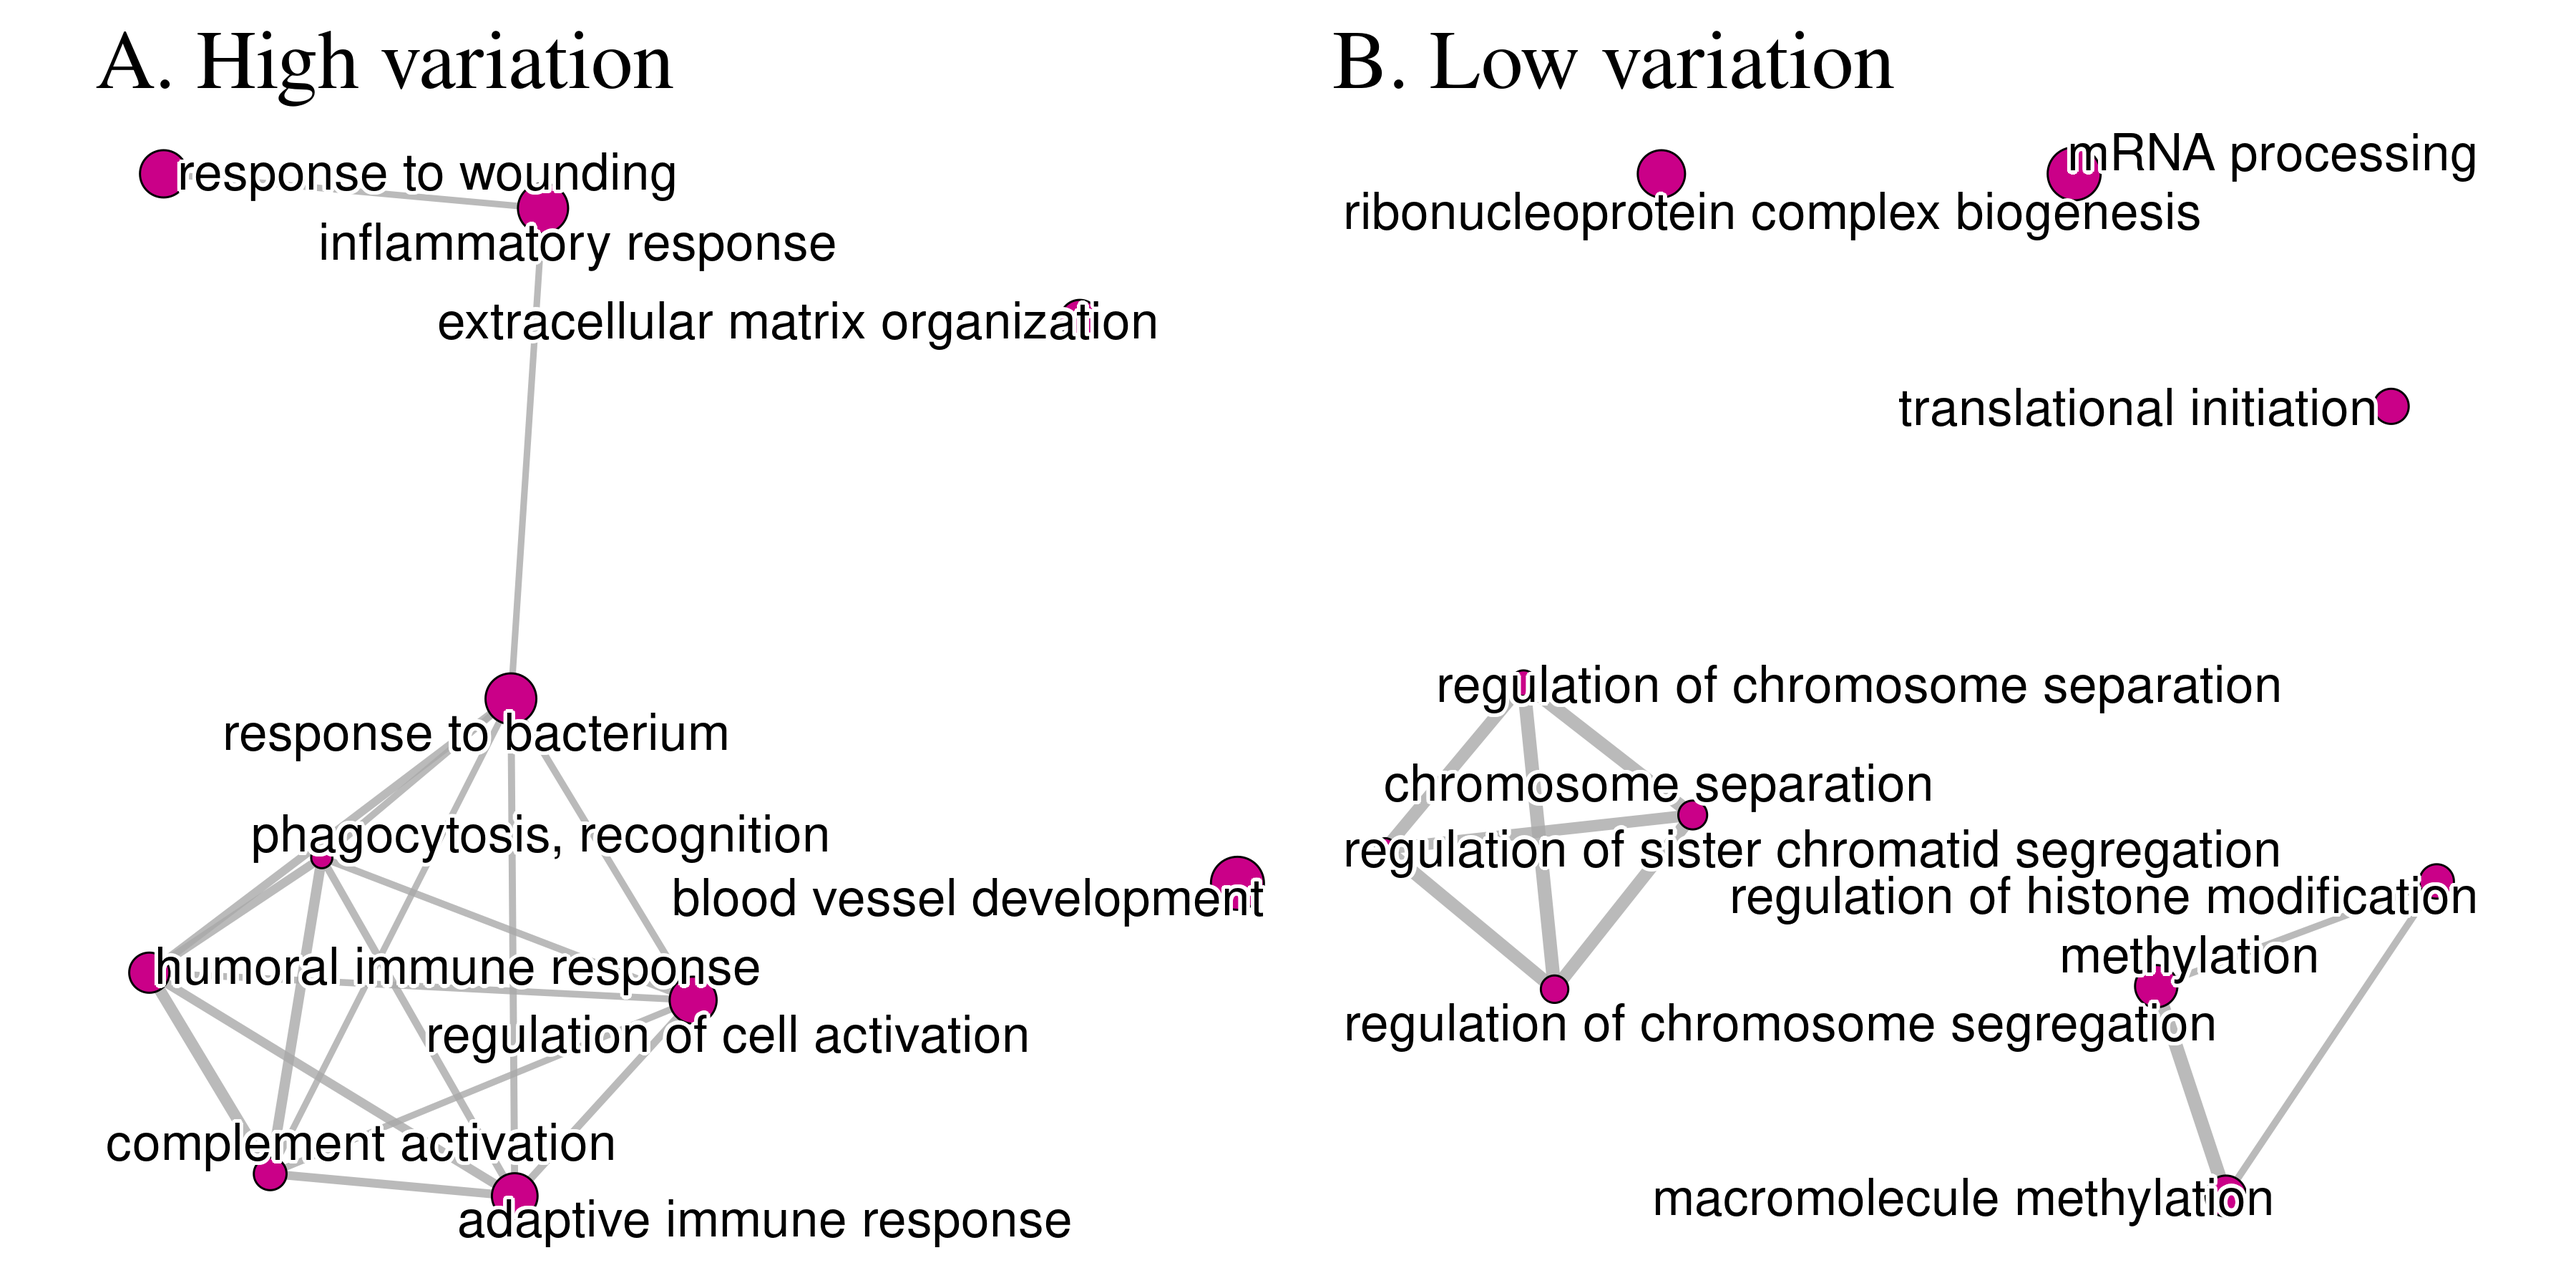
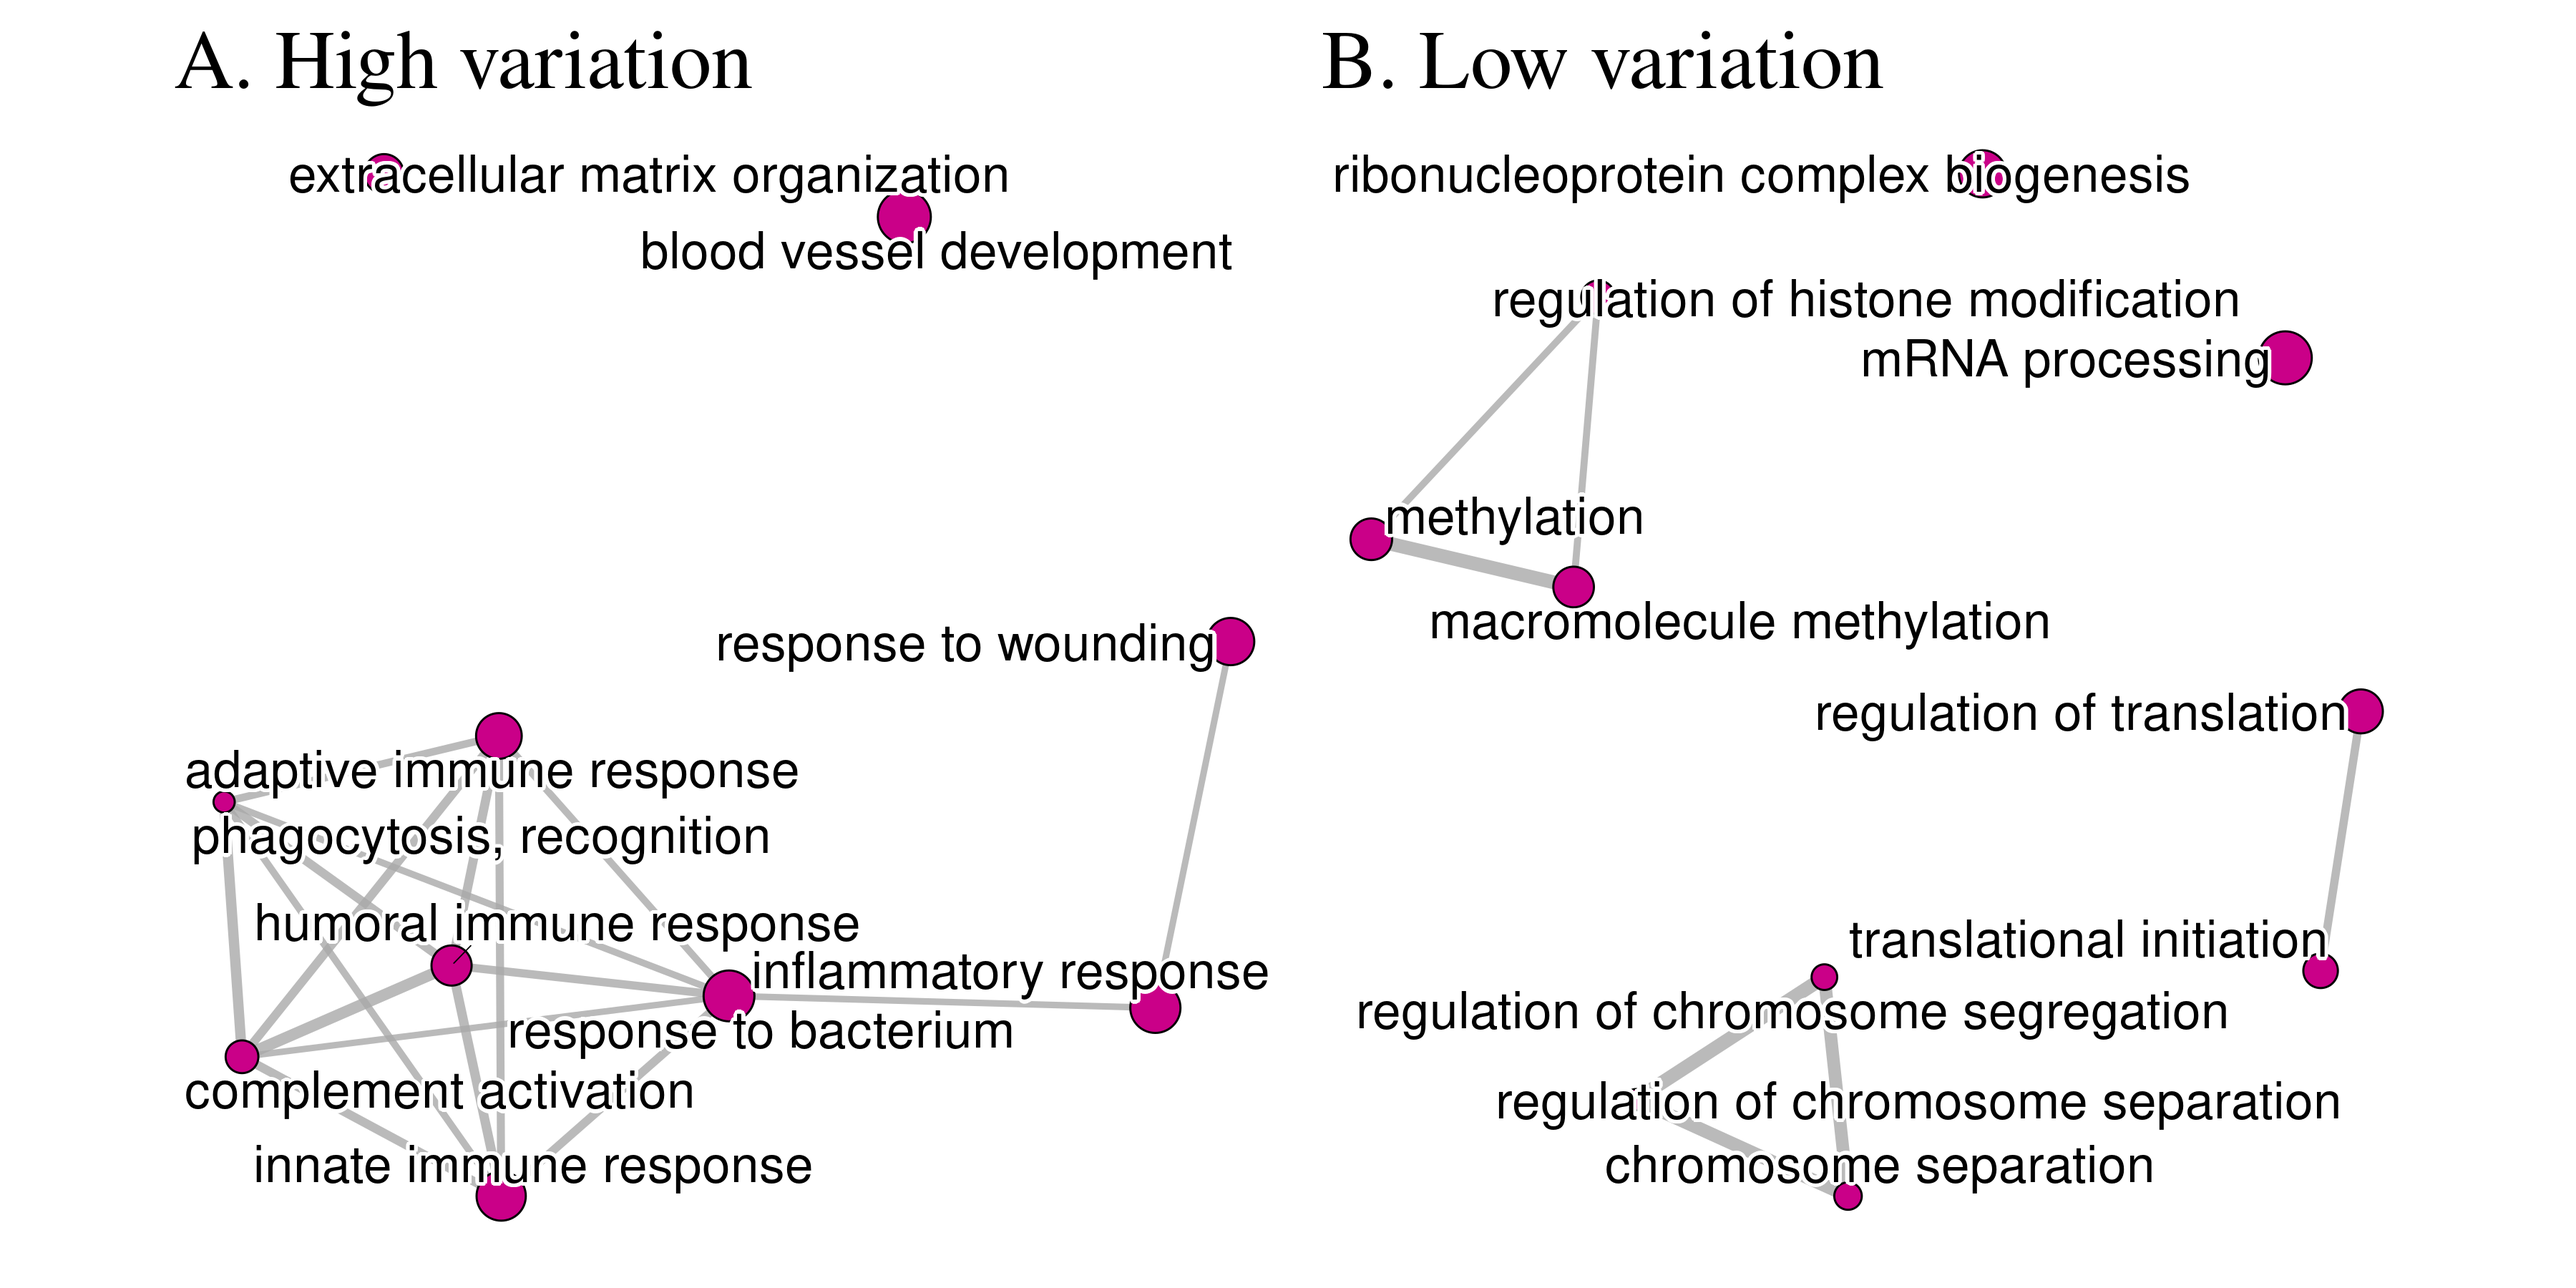
more GO results

diff --git a/main.md b/main.md
@@ -193,7 +193,7 @@ These studies also show up further away in the PCoA plot in [@fig:sd_corr]C.
 
 ## Does biological function explain variation in expression?
 
-To explore the relationship between variation and function, we took the top 5% most variable and the bottom 5% least variable genes in our ranking and performed a Gene Ontology (GO) enrichment analysis within each group. This allows us to establish the representative functions of these consistently high and low-variance genes. Among the 5% most variable genes we observe enrichment for immune function (@fig:go_tails, left) and enrichment for house keeping genes among the 5% least variable genes (@fig:go_tails, right). 
+To explore the relationship between variation and function, we took the top 5% most variable and the bottom 5% least variable genes in our ranking (about ~560 genes in each group) and performed a Gene Ontology (GO) enrichment analysis within each group. This allows us to establish the representative functions of these consistently high and low-variance genes. In total, using a Benjamini-Hochberg adjusted p-value threshold of $10^{-3}$, we found 59 enriched terms in the low variance genes, and 738 enriched terms in the high variance genes (see supporting table 1 for a complete listing). Among the 5% most variable genes we observe enrichment for biological processes like immune function, response to stimulus, maintenance of homeostasis, and tissue morphogenesis (@fig:go_tails, left); among the 5% least variable genes we see enrichment for housekeeping functions like mRNA processing, cell cycle regulation, methylation, histone modification, translation, transcription, and DNA repair (@fig:go_tails, right). 
 
 We also explore the distribution of variation among the genes associated with GO terms.
 For this, we gather all biological process GO terms in level 3 (i.e. terms that are at a distance of 3 for the top of the GO hierarchy).
@@ -203,14 +203,14 @@ We measure how far from this uniform allocation each term is by measuring the Sh
 Higher entropy is associated with more uniform distribution of genes across deciles.
 GO terms with low entropy indicated some decile is over-represented in the genes associated with that term. We also measure skewness for each term, which should be zero if no decile is over-represented, negative if high-variation terms are over-represented, and positive if low-variation deciles are over-represented.
 Skewness by entropy for each GO term can be seen in @fig:skew_entropy. Positive-skew low-entropy terms, those enriched with low-variance genes, are associated with house keeping functions, like RNA localization, translation initiation, methylation and chromosome segregation.
-Likewise, terms with negative skew and low entropy, enriched for high-variance genes, are related to immune response, tissue morphogenesis, chemotaxis---all dynamic biological functions related to interacting with the environment. 
+Likewise, terms with negative skew and low entropy, enriched for high-variance genes, are related to immune response, tissue morphogenesis, chemotaxis---all dynamic biological functions related to interacting with the environment.
 
-Both GO related analysis suggests a strong influence of biological function in determining gene expression variation. Genes associated with house keeping functions, expected to be under strong stabilizing selection, are also low-variance; high-variance genes are associated with responding to external stimuli (i.e., tissue reorganization and immune response).
+Both GO related analysis suggests a strong influence of biological function in determining gene expression variation. Genes associated with baseline fundamental functions, expected to be under strong stabilizing selection, are also low-variance; high-variance genes are associated with responding to external stimuli (i.e., tissue reorganization and immune response).
 
 \begin{figure}
     \centering
     \includegraphics[width=\linewidth]{figures/local_go_lowerUpper.png}
-    \caption{Gene set enrichment analyses testing for over representation of gene ontology categories in the upper and lower 5\% quantiles of the gene variation rank. High-variance gene are enriched for terms related to immune function, response to wounding, blood vessel morphogenesis and inflammatory response. In contrast, low-variance genes are associated with translation, control of methylation, RNA processing, chromosome separation, and other cell housekeeping functions.}
+    \caption{Gene set enrichment analyses testing for over representation of gene ontology categories in the upper and lower 5\% quantiles of the gene variation rank. High-variance gene are enriched for terms related to immune function, response to wounding, blood vessel morphogenesis and inflammatory response. In contrast, low-variance genes are associated with translation, control of methylation, RNA processing, chromosome separation, and other cell housekeeping functions. All displayed terms are significant with a 5\% FDR corrected p-value below $10^{-3}$.}
     \label{fig:go_tails}
 \end{figure}
 
@@ -301,10 +301,6 @@ __Drafts:__
 
 # Methods
 
-## Code availability
-
-All code for reproducing all analysis and figures is available at [github.com/Wolfffff/exp_var](https://github.com/Wolfffff/exp_var).
-
 ## Data sources
 
 We selected 60 RNA-seq studies with large sample sizes from public gene expression repositories recount3 [@Wilks2021-uj] and Expression Atlas [@Papatheodorou2020-dn]. We only used studies for which raw read count data was available, and for which we could parse the metadata for batch effects.
@@ -360,6 +356,10 @@ We then trim this graph by keeping only edges for which the Spearman correlation
 In this trimmed network, we then take the average of the Spearman correlation of all remaining edges for each gene.
 So, for each study we have a measure of the average correlation of each gene with every other gene.
 The average connectivity for each gene is the average across all studies in which that gene is expressed.
+
+## Code availability
+
+All code for reproducing all analysis and figures is available at [github.com/Wolfffff/exp_var](https://github.com/Wolfffff/exp_var).
 
 \normalsize
 
